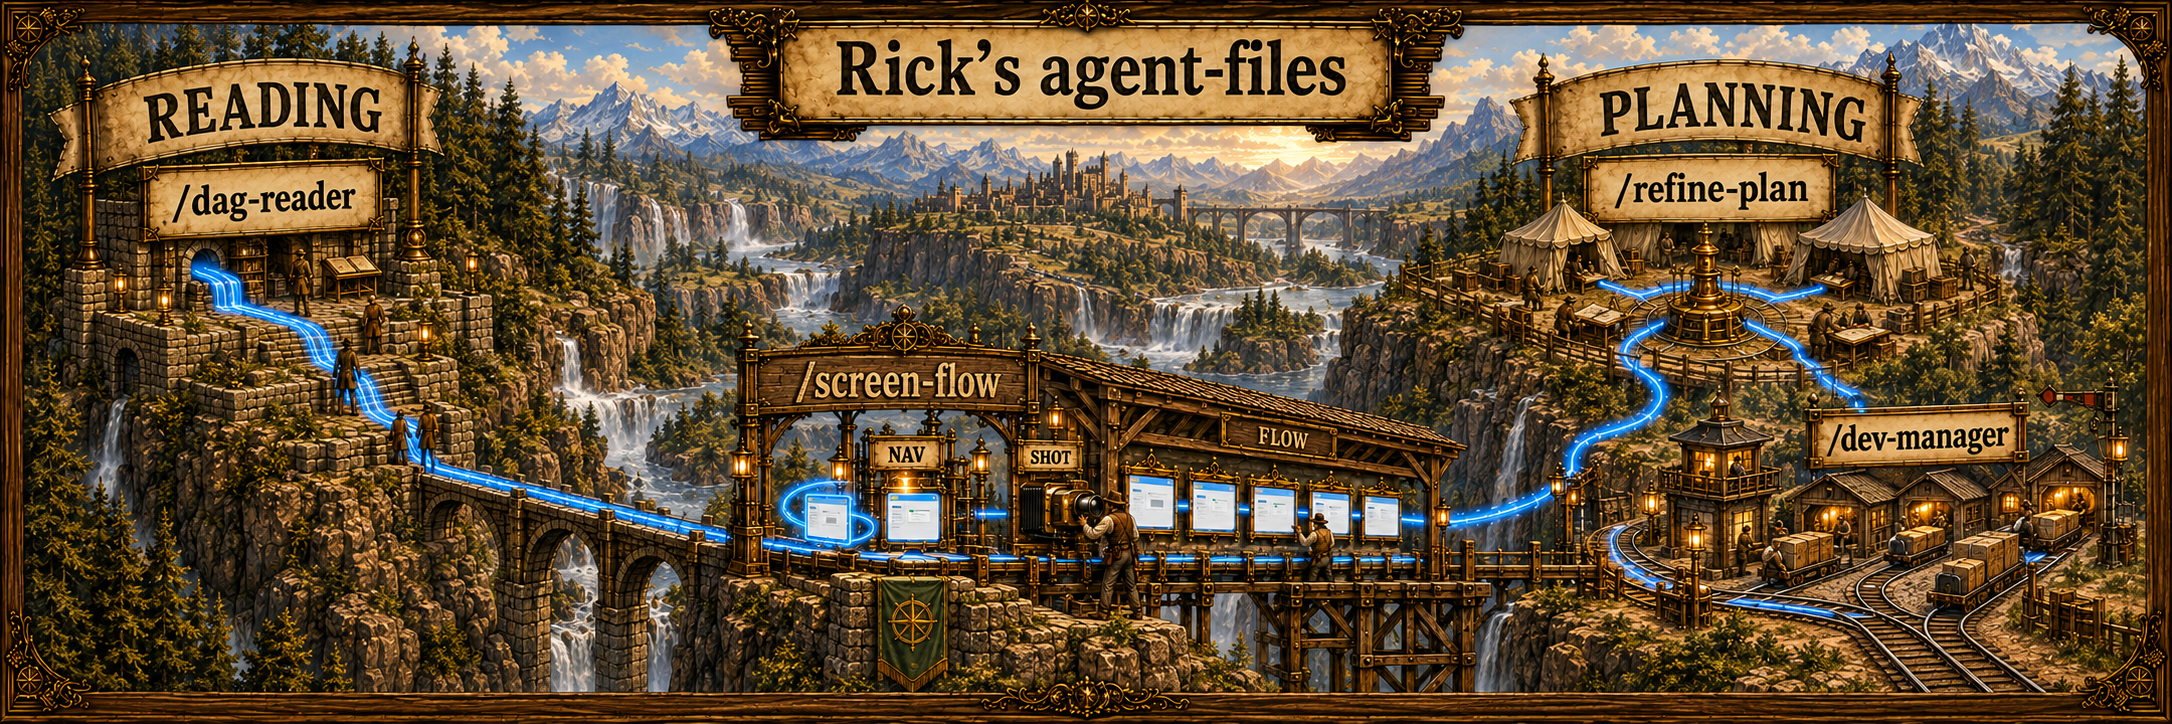
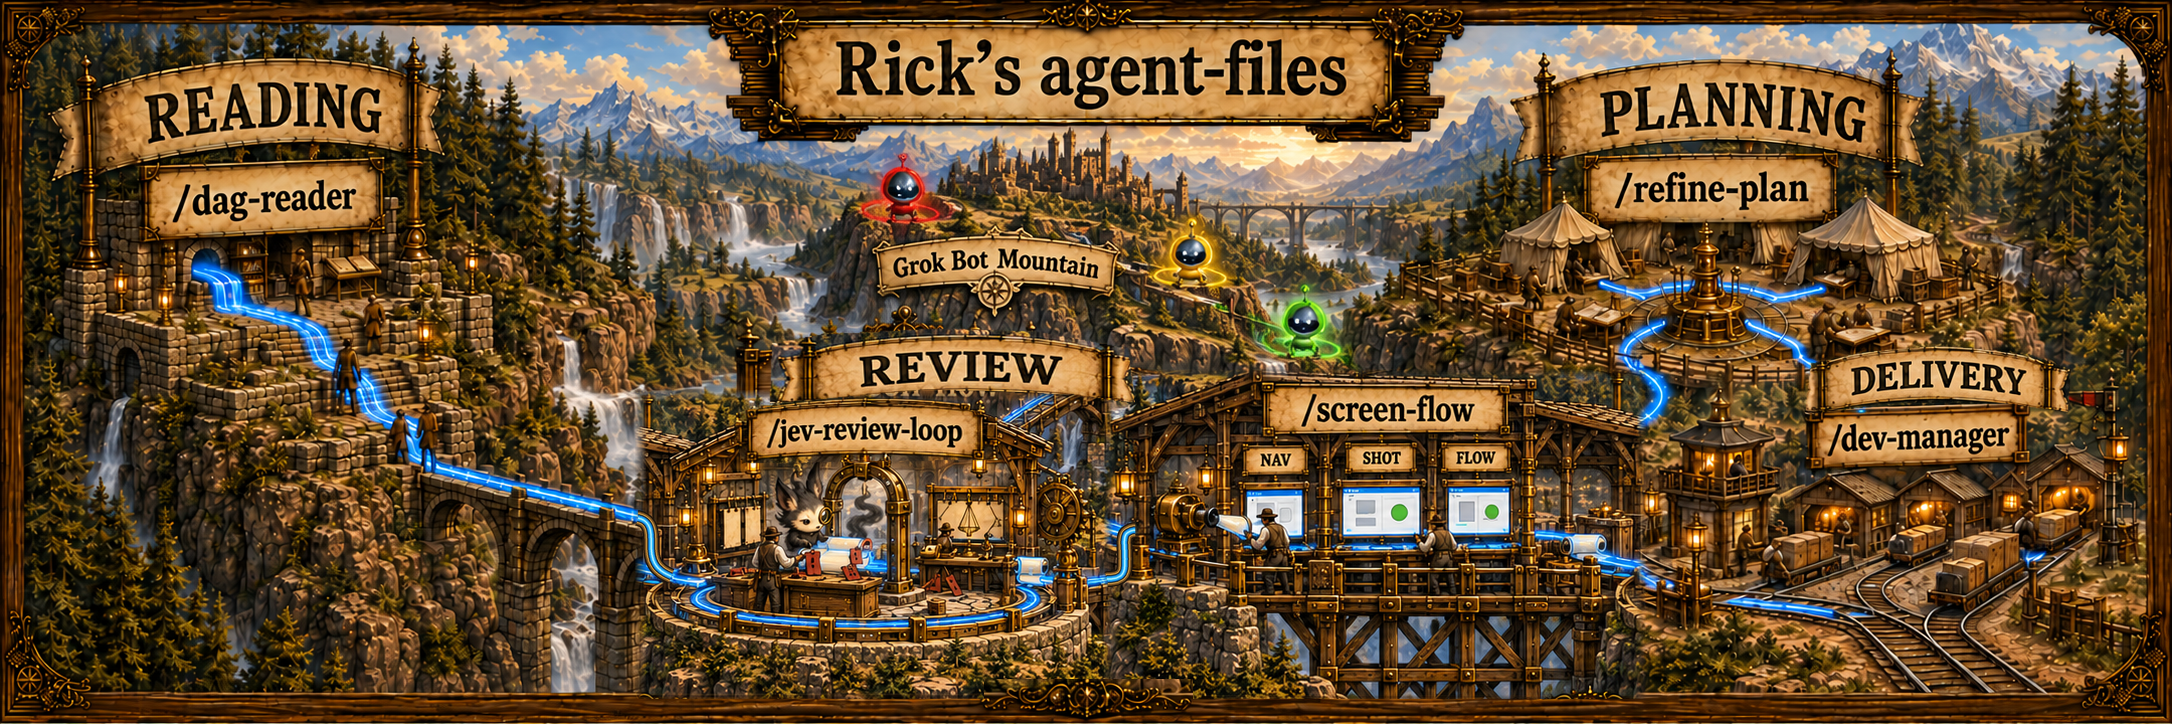
Add Jev artwork and define world map routes

diff --git a/.claude/skills/generate-world-map/SKILL.md b/.claude/skills/generate-world-map/SKILL.md
@@ -32,8 +32,8 @@ added to `skills/` without an entry there is a skill that vanishes from the map
 on the next regeneration. `/add-new-skill` writes the entry; this file turns
 entries into a picture.
 
-Regenerate when: a skill is added or removed, a skill's region changes, or an
-edge between skills appears. Do not regenerate for a wording tweak inside a
+Regenerate when: a skill is added or removed, a skill's region or placement
+changes, a route changes, or a background landmark changes. Do not regenerate for a wording tweak inside a
 skill — the map costs a human round-trip.
 
 ## Find the style guide
@@ -70,37 +70,50 @@ folder, is a bug — say so and stop rather than drawing a map you know is wrong
 Drop any region no skill claims. Regions are scaffolding for the roster, not
 decoration.
 
+### Locations and route DAG
+
+The registry separates three kinds of information:
+
+- `regions[].ground`, `skills[].placement`, and `landmarks[].placement` describe
+  geography. Honor explicit placement constraints while composing the scene.
+- `skills[].edges` defines the directed inter-site work routes. Validate that
+  every target exists, that there are no duplicate edges or cycles, and that
+  the route covers every skill. Derive travel order from these edges, not YAML
+  listing order or the arrangement in an old image. This is a map of work
+  routes, not a claim that the skills require each other at runtime.
+- Each site's `transform` and `terminates` describe its internal mechanism,
+  including local review loops. Those loops do not become edges in the DAG.
+
+For the current roster, the route is `dag-reader → refine-plan →
+jev-review-loop → screen-flow → dev-manager`. Jev is immediately upstream of
+screen-flow, with no intervening site. Future changes come from the registry;
+update this example if the route changes.
+
+Background `landmarks` are separate from the skill roster and route DAG. Keep
+their placements and signs, but do not turn them into processing stages or add
+individual Grok Bot packages to the skill registry.
+
 ## Pick the canvas
 
-| Skill count | Canvas | Ratio |
-| --- | --- | --- |
-| 1–10 | **1200×500** | 24:10 |
-| 11–18 | 1440×960 | 3:2 |
-| 19+ | stop — split the map or cut the roster |
+Use `canvas.primary` from the registry: **2172×724**, exactly **3:1**. Put these
+exact dimensions at the start of the image-generation prompt. Both
+`world-map.png` and `agent-files-hero.png` use this size.
 
-24:10 is the default and what `world-map.png` is. Past ten sites the wide strip
-starves each site of area and the plaques fall under the type floor; take the
-vertical room instead. Do not shrink the type to fit more sites.
+Do not substitute another canvas based on skill count. If the roster cannot
+fit legibly, simplify the mechanisms or propose splitting the map before
+changing the registered dimensions. Do not shrink labels to fit more sites.
 
 ## Compute the type floor
 
-Root README displays at about **900px** wide, and the map is rendered at
-**1×** that slot — not doubled for HiDPI. It stays slightly soft on a retina
-screen; that is the accepted trade, and the registry's `render_scale` records
-it. Rendering at 2× would halve the effective type floor against the slot and
-the label hierarchy stops being the design.
+Root README displays at about **900px** wide. The image file stays at
+**2172×724**; calculate lettering for the smaller display width.
 
 Per the style guide, `min_file_px = ceil(10 × gen_width / display_width)`.
 
-| Canvas | Floor in file | Title in file |
-| --- | --- | --- |
-| 1200×500 | **14px** | ~80px |
-| 1440×960 | **16px** | ~96px |
-| 2172×724 (ChatGPT hero size, README ~900px) | **28px** | ~140px |
-
-Both numbers go in the prompt. A label that cannot clear the floor gets cut,
-not shrunk. If ChatGPT returns a 2172×724 file, keep it — do not rescale down
-to 1200×500. Enlarge signs rather than compressing their text.
+The mathematical floor is `ceil(10 × 2172 / 900) = 25px`. Use the stronger
+registry minimum of **28px** and a title around **140px**. Put both design
+sizes in the prompt. A label that cannot clear the floor gets cut, not shrunk.
+Enlarge signs rather than compressing text. Keep the PNG at its native size.
 
 ## Attach references
 
@@ -129,7 +142,7 @@ landscape** instead of squeezing in another inset or shrinking existing labels.
 
 ## Label budget
 
-Four label classes, and the viewer must feel the difference before consciously
+Five label classes, and the viewer must feel the difference before consciously
 reading a word. Permitted words, and nothing else:
 
 - One title cartouche: the registry's `title`. **No subtitle.** Largest.
@@ -139,6 +152,9 @@ reading a word. Permitted words, and nothing else:
 - Local mechanism plates **only** when the registry's `structure:` named them
   (example: `NAV`, `SHOT`, `FLOW` on the `/screen-flow` gallery). Smaller than
   plaques, still ≥ the type floor.
+- Background landmark signs from `landmarks[].plaque` only (currently
+  `Grok Bot Mountain`). Subordinate to region banners and skill plaques, but
+  still above the type floor. They do not label a skill or processing stage.
 
 That is the whole list. Spell it out in the prompt as an exhaustive one, then
 ban the rest by name — the generator will otherwise invent them:
@@ -183,11 +199,12 @@ subject material:
 - Kind: `map` — elevated scenic viewpoint, like a richly illustrated antique
   world map. Not an overhead map, isometric diagram, or flat flowchart. One
   continuous world inside an ornate carved wooden border.
-- Size: from the canvas table above. ChatGPT often returns **2172×724**; that
-  is an acceptable on-disk size for the README hero slot.
+- Size: exactly **2172×724**, **3:1**, as recorded in `canvas.primary`.
 - Topology: **relay along one trunk**. The blue enters as raw work at the
-  lower left, passes through each skill site in region order, and leaves at the
-  right edge. Each `edges:` entry is a visible route, drawn not named.
+  lower left, follows the registry's directed edges through the skill sites,
+  and leaves at the right edge. Each `edges:` entry is a visible route, drawn
+  not named. Honor explicit placement, especially Jev immediately before
+  screen-flow. Region geometry must accommodate these routes.
 - Per skill: `structure:` is what stands there, `transform:` is what the blue
   does passing through, `plaque:` is the sign bolted to it. State explicitly
   that a skill sits **inside its own region** and nowhere else, and that a
@@ -195,6 +212,8 @@ subject material:
   generator drifts on both.
 - Blue: the registry's `blue:` block, one continuous route, brightest where it
   exits.
+- Background landmarks: use their registered placements, structures, and signs;
+  keep them visually subordinate and off the work route.
 - Termination: only where a skill's entry has a `terminates:` line.
 - Composition: five or six large visual masses with generous open ground.
   Say that empty land, water, and sky are intentional, or the generator fills
@@ -214,10 +233,12 @@ on-image words, and where to save the PNG (`world-map.png` at the repo root).
 
 ## After the PNG lands
 
-If `~/Downloads/agent-files-hero.png` or `~/Downloads/world-map.png` exists and
-is a ~3:1 PNG, copy it to **both** `world-map.png` and `agent-files-hero.png`
-at the repo root. ChatGPT returns whatever it returns — do not rescale it to
-the nominal canvas. Keep the two root files in sync.
+Use the newly supplied `~/Downloads/world-map.png` or
+`~/Downloads/agent-files-hero.png`; if both exist, use the user's identified
+image or the newer matching image after inspection, not a stale namesake.
+Verify it is **2172×724**, then copy it unchanged to **both** `world-map.png`
+and `agent-files-hero.png` at the repo root. Keep the two files byte-identical.
+If the dimensions differ, report the mismatch instead of silently resizing.
 
 Root README line 1 is the only embed:
 

diff --git a/.claude/skills/add-new-skill/SKILL.md b/.claude/skills/add-new-skill/SKILL.md
@@ -107,6 +107,13 @@ passing through, told through the building's shape rather than through words),
 and any `edges` to other skills. Add `terminates` only when the skill actually
 has a stopping rule.
 
+Record a `placement` when relative location matters. Splice the site into the
+existing `edges` route, updating its predecessor and successor as needed;
+do not leave it disconnected or create an inter-site cycle. These edges track
+the map's work routes, not runtime dependencies. Keep the skill's internal
+loops in `transform` / `terminates`. Background landmarks belong separately
+in `landmarks`, outside the skill route.
+
 Do not repaint the map in this run. It costs a human round-trip through
 ChatGPT; `/generate-world-map`
 ([.claude/skills/generate-world-map/SKILL.md](../generate-world-map/SKILL.md))
